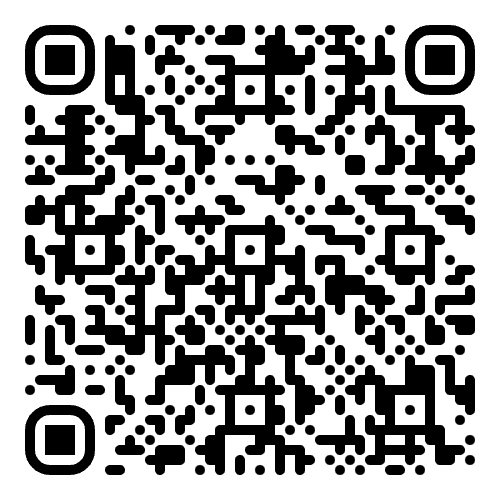
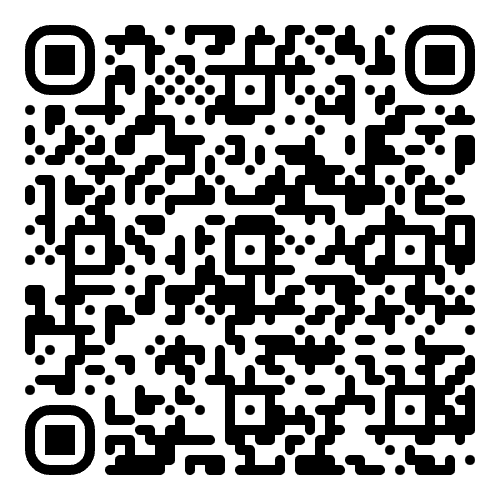
updated resume links

diff --git a/src/pages/Contact.js b/src/pages/Contact.js
@@ -67,7 +67,7 @@ export default function Contact() {
             <div className="method-txt">
               <a
                 target="blank"
-                href="https://acrobat.adobe.com/id/urn:aaid:sc:VA6C2:a4674cc5-7015-4734-a90a-b1d619e4f935"
+                href="https://acrobat.adobe.com/id/urn:aaid:sc:VA6C2:4c292ec3-b859-4668-b4d3-17b346f4e3d5"
               >
                 download resume
               </a>

diff --git a/src/pages/Landing.js b/src/pages/Landing.js
@@ -31,7 +31,7 @@ export default function Landing() {
               Scan to download my{" "}
               <a
                 target="blank"
-                href="https://acrobat.adobe.com/id/urn:aaid:sc:VA6C2:a4674cc5-7015-4734-a90a-b1d619e4f935"
+                href="https://acrobat.adobe.com/id/urn:aaid:sc:VA6C2:4c292ec3-b859-4668-b4d3-17b346f4e3d5"
               >
                 resume
               </a>

diff --git a/src/styles/pages/landing.scss b/src/styles/pages/landing.scss
@@ -85,7 +85,7 @@
         font-family: $heading-font;
         font-weight: $heaviest;
         font-size: 10vw;
-        color: $almost-black;
+        color: $theme;
         display: block;
         margin-right: 30px;
       }

diff --git a/src/styles/pages/contact.scss b/src/styles/pages/contact.scss
@@ -70,7 +70,7 @@
         font-family: $heading-font;
         font-weight: $heaviest;
         font-size: 60px;
-        color: $almost-black;
+        color: $dark-grey;
       }
     }
 
